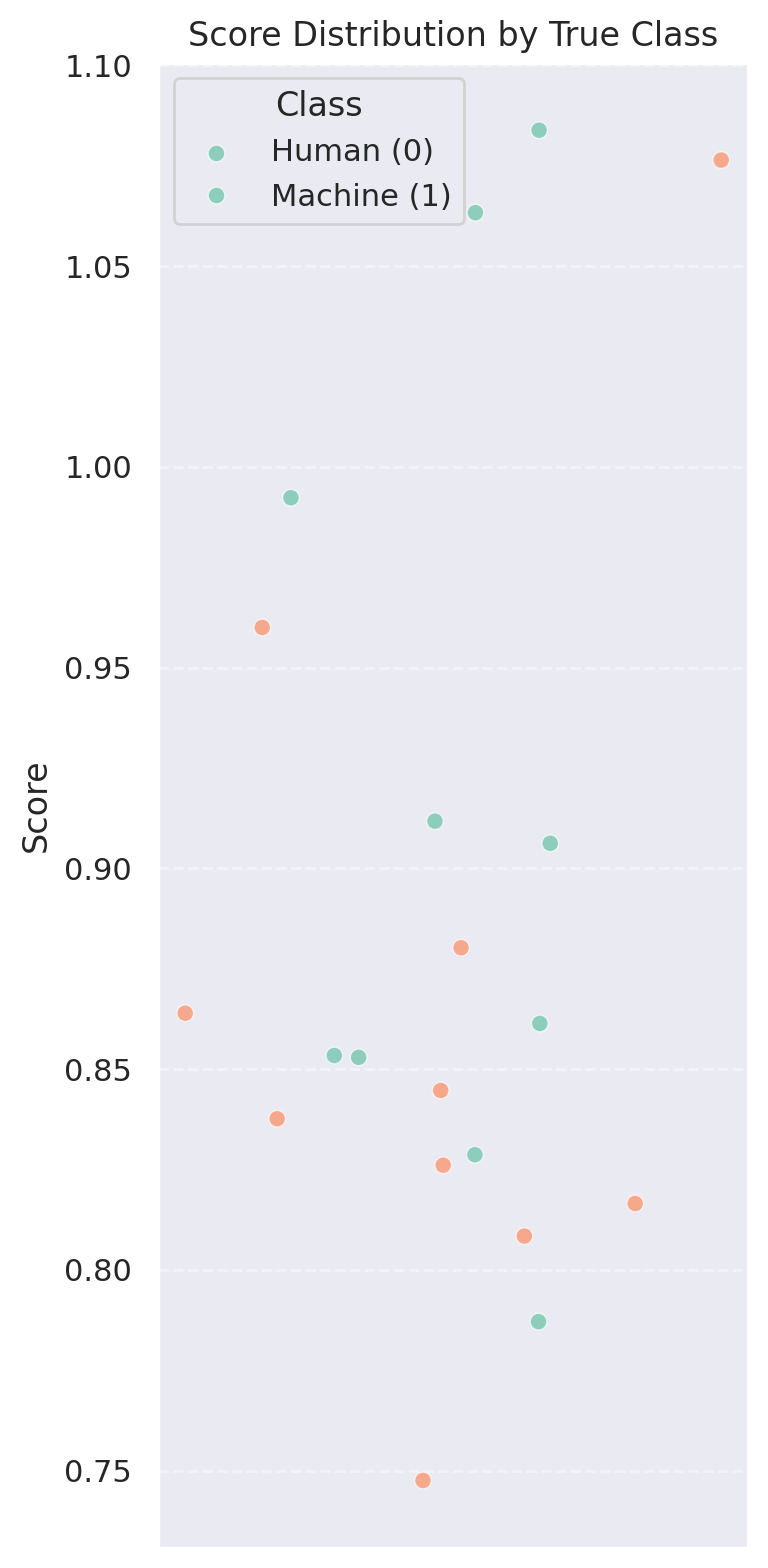
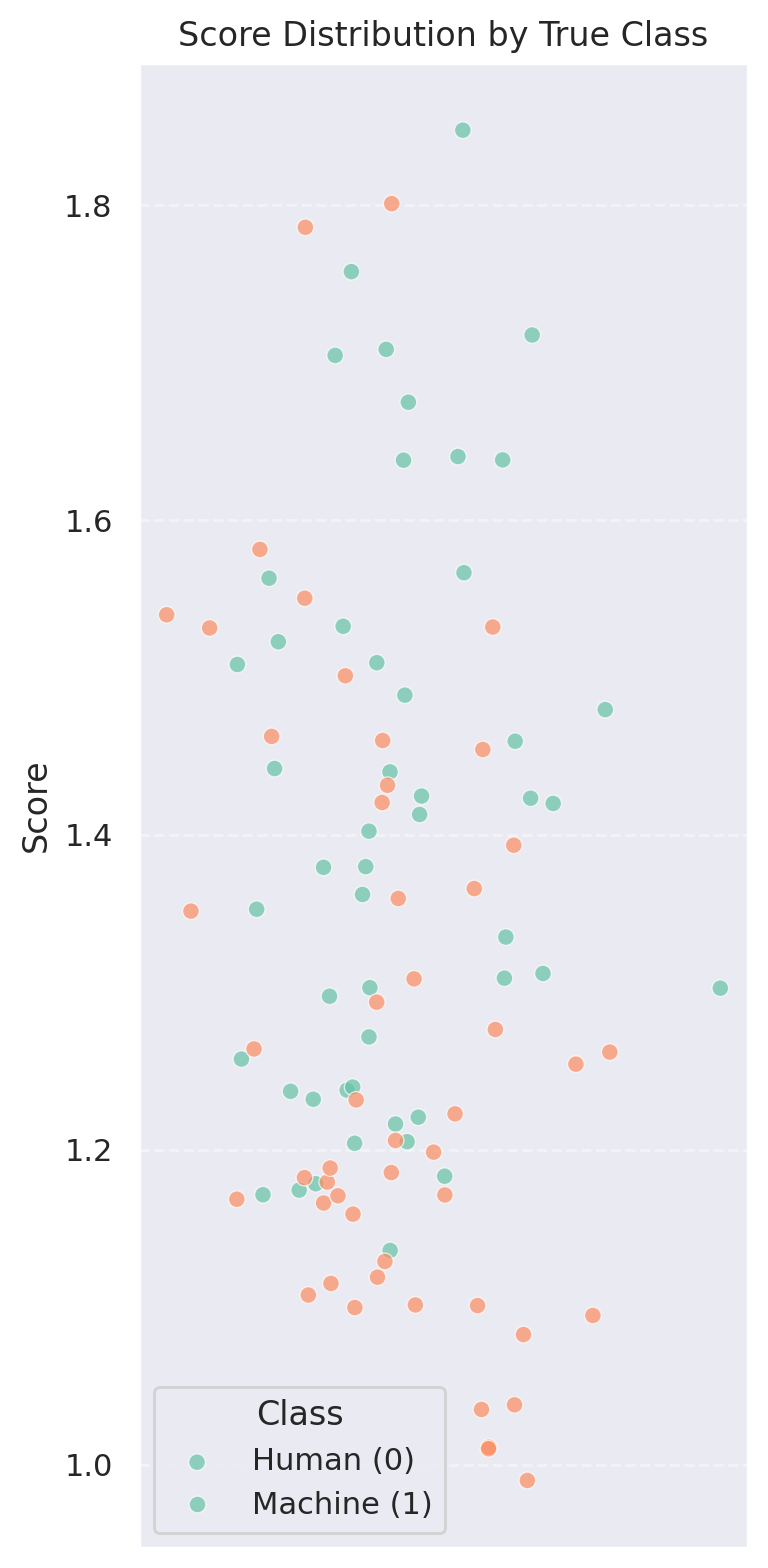
Save for new gpu

diff --git a/binoculars/detector.py b/binoculars/detector.py
@@ -27,10 +27,14 @@ DEVICE_2 = "cuda:0" #  if torch.cuda.device_count() > 1 else DEVICE_1
 
 def enable_mc_dropout(model):
     for module in model.modules():
+        print(module)
         if module.__class__.__name__.startswith('Dropout'):
             module.train()
-            module.p = 0.35
-
+            module.p=0.15
+        
+        if module.__class__.__name__.startswith('FalconAttention'):
+            module.train()
+            module.attention_dropout.p= 0.1
 
 class Binoculars(object):
     def __init__(self,
@@ -121,14 +125,16 @@ class Binoculars(object):
         enable_mc_dropout(self.performer_model)
         
         n_samples =5
-        preds = []
+        
+        running_total = torch.zeros((performer_logits.shape), device=DEVICE_1)
         for _ in range(n_samples):
             outputs = self.performer_model(**encodings).logits
-            preds.append(outputs)
+            running_total += outputs 
+
         
-        preds = torch.stack(preds)
-        mean_pred = preds.mean(axis=-1)
-        entropy = entropy(mean_pred.to(DEVICE_1), performer_logits.to(DEVICE_1),
+        running_total /= 4
+        
+        bottom = entropy(running_total.to(DEVICE_1), performer_logits.to(DEVICE_1),
                         encodings.to(DEVICE_1), self.tokenizer.pad_token_id)
         """
         ce_values = []
@@ -141,7 +147,7 @@ class Binoculars(object):
         
 
 
-        binoculars_scores = ppl / entropy
+        binoculars_scores = ppl / bottom
 
         binoculars_scores = binoculars_scores.tolist()
         return binoculars_scores[0] if isinstance(input_text, str) else binoculars_scores

diff --git a/experiments/my_experiments.py b/experiments/my_experiments.py
@@ -96,7 +96,7 @@ def run_experiment():
 
 
     regular_json_obj = pd.read_json(path_or_buf=args.dataset_path, lines=True)
-    regular_json_obj = regular_json_obj[:500]
+    regular_json_obj = regular_json_obj[:50]
     regular_ds = Dataset.from_pandas(regular_json_obj)
 
     # breakpoint()
